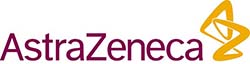
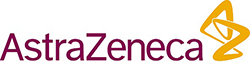
changed size

diff --git a/main.rb b/main.rb
@@ -45,8 +45,8 @@ __END__
         .img-responsive {
            width: 100%;
            height: 100%;
-           
-					
+
+
         }
 
 
@@ -55,7 +55,7 @@ __END__
         }
 
 
-	
+
 
     </style>
 <title>Tim McHale - Developer</title>
@@ -71,9 +71,9 @@ __END__
   <div class="carousel-inner">
 
     <div class="item active"><!-- class of active since it's the first item -->
-			
+
       <img src="<%= picture.sub!(/public\//, '') %>" class="img-responsive" />
-		
+
     </div>
       <div class="item">
       <img src="<%= pic.sub!(/public\//, '') %>" class="img-responsive" />
@@ -120,15 +120,17 @@ __END__
         </div>
         <div class="col-md-6">
           <img class="featurette-image img-center img-responsive" src="<%= pic3.sub!(/public\//, '') %>" >
-        </div>
+					</div>
+					
       </div>
 
       <hr class="featurette-divider">
 
      <div class="row featurette img-responsive">
-        <div class="col-md-5">
-          <img class="featurette-image img-responsive" src="<%= pic4.sub!(/public\//, '') %>">
-        </div>
+        <div class="col-md-3">
+									<img class="featurette-image img-responsive" src="<%= pic4.sub!(/public\//, '') %>">
+								</div>
+
         <div class="col-5">
           <h2 class="featurette-heading text-center"><span class="text-muted">And</span></h2>
           <p class="lead text-center">developed a mobile application for AstraZenca</p>
@@ -138,13 +140,7 @@ __END__
       <%end%>
       <%end%>
       <!-- /END THE FEATURETTES -->
-			<br>
-			<br>
-      <!-- FOOTER -->
-      <footer>
-        <p class="pull-right"><a href="#">Back to top</a></p>
-        <p>&copy; 2014 Tim McHale &middot; </p>
-      </footer>
+
 
     </div><!-- /.container -->
 
